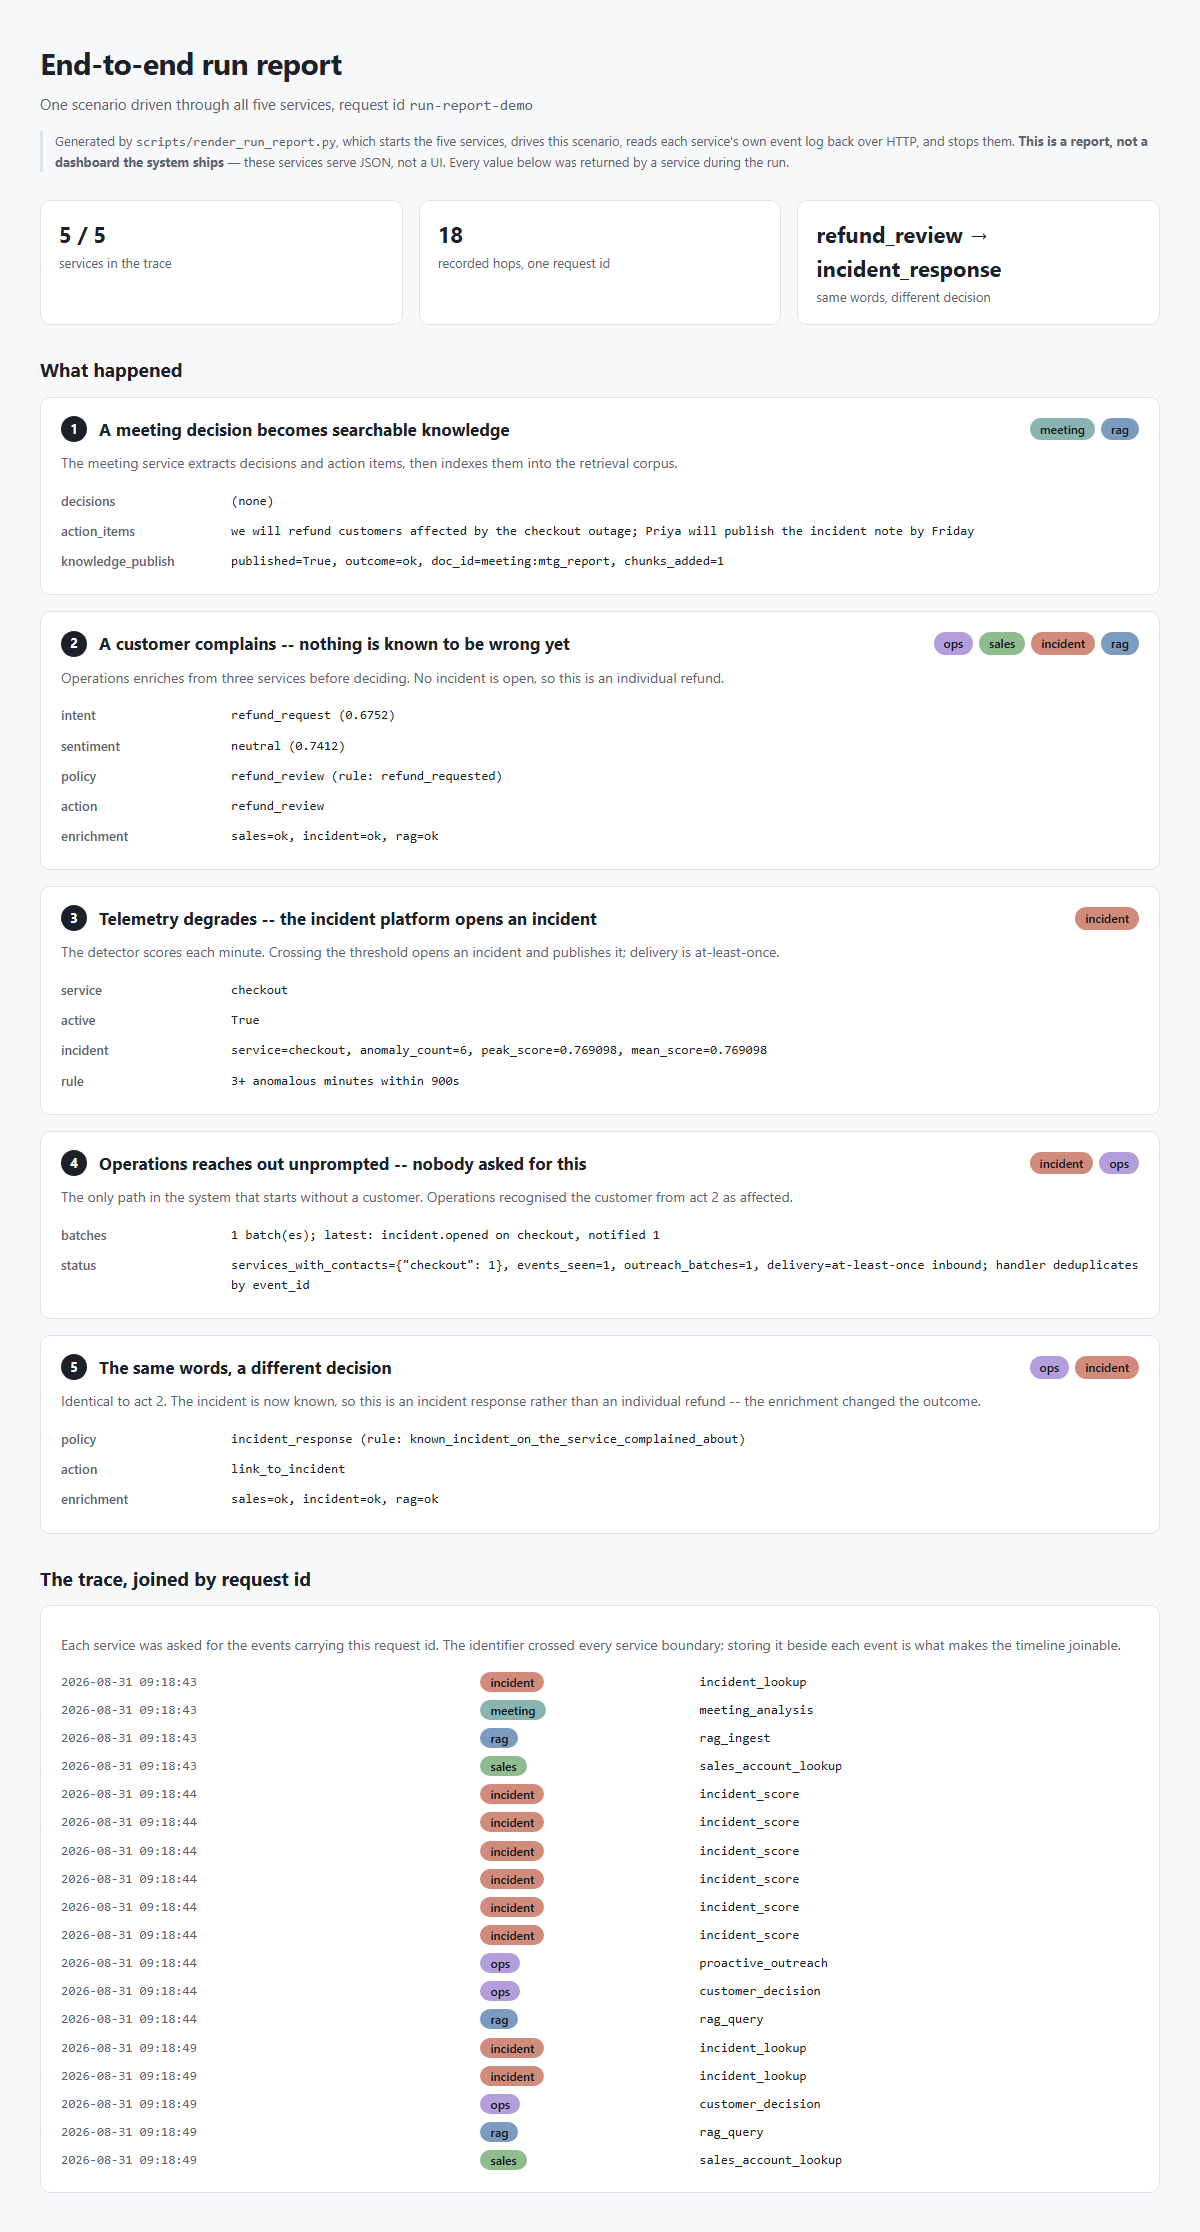
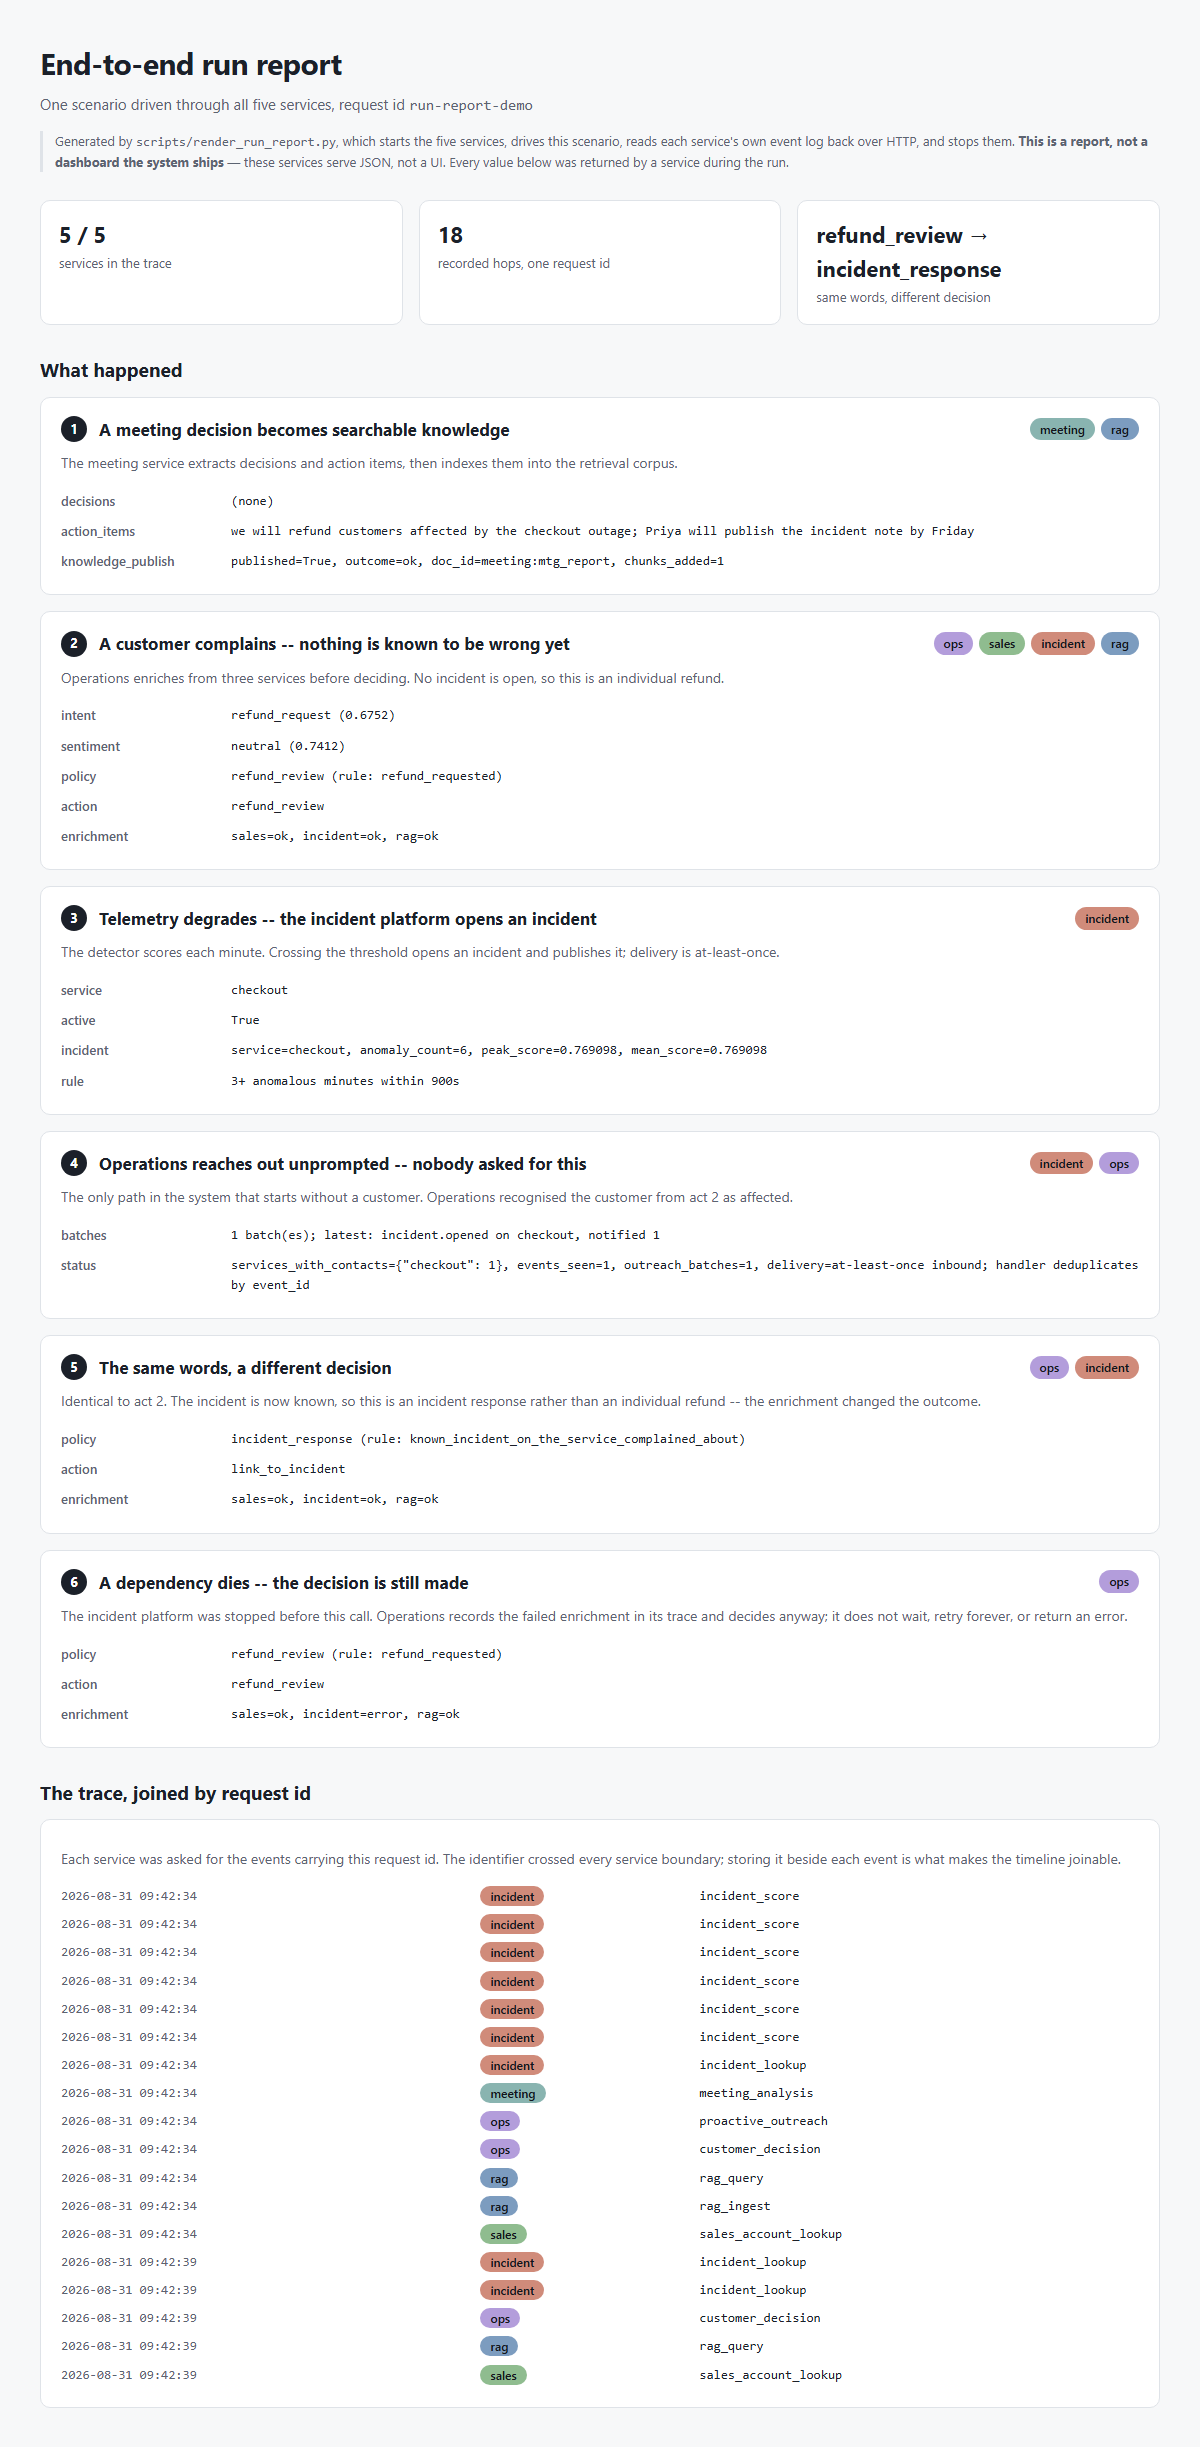
Make the terminal cards stable, and drop the one now superseded

diff --git a/docs/assets/run-report.html b/docs/assets/run-report.html
@@ -111,13 +111,22 @@
       <p class="detail">Identical to act 2. The incident is now known, so this is an incident response rather than an individual refund -- the enrichment changed the outcome.</p>
       <table class="kv"><tr><th>policy</th><td>incident_response  (rule: known_incident_on_the_service_complained_about)</td></tr><tr><th>action</th><td>link_to_incident</td></tr><tr><th>enrichment</th><td>sales=ok,  incident=ok,  rag=ok</td></tr></table>
     </section>
+    <section class="act">
+      <div class="act-head">
+        <span class="num">6</span>
+        <h3>A dependency dies -- the decision is still made</h3>
+        <div class="chips"><span class="chip" style="--c:#b39ddb">ops</span></div>
+      </div>
+      <p class="detail">The incident platform was stopped before this call. Operations records the failed enrichment in its trace and decides anyway; it does not wait, retry forever, or return an error.</p>
+      <table class="kv"><tr><th>policy</th><td>refund_review  (rule: refund_requested)</td></tr><tr><th>action</th><td>refund_review</td></tr><tr><th>enrichment</th><td>sales=ok,  incident=error,  rag=ok</td></tr></table>
+    </section>
 
   <h2>The trace, joined by request id</h2>
   <div class="trace">
     <p class="detail">Each service was asked for the events carrying this request
       id. The identifier crossed every service boundary; storing it beside each
       event is what makes the timeline joinable.</p>
-    <table><tr><td class="ts">2026-08-31 09:18:43</td><td><span class="chip" style="--c:#d08b7a">incident</span></td><td class="ev">incident_lookup</td></tr><tr><td class="ts">2026-08-31 09:18:43</td><td><span class="chip" style="--c:#89b4b0">meeting</span></td><td class="ev">meeting_analysis</td></tr><tr><td class="ts">2026-08-31 09:18:43</td><td><span class="chip" style="--c:#7c9cbf">rag</span></td><td class="ev">rag_ingest</td></tr><tr><td class="ts">2026-08-31 09:18:43</td><td><span class="chip" style="--c:#8fbc8f">sales</span></td><td class="ev">sales_account_lookup</td></tr><tr><td class="ts">2026-08-31 09:18:44</td><td><span class="chip" style="--c:#d08b7a">incident</span></td><td class="ev">incident_score</td></tr><tr><td class="ts">2026-08-31 09:18:44</td><td><span class="chip" style="--c:#d08b7a">incident</span></td><td class="ev">incident_score</td></tr><tr><td class="ts">2026-08-31 09:18:44</td><td><span class="chip" style="--c:#d08b7a">incident</span></td><td class="ev">incident_score</td></tr><tr><td class="ts">2026-08-31 09:18:44</td><td><span class="chip" style="--c:#d08b7a">incident</span></td><td class="ev">incident_score</td></tr><tr><td class="ts">2026-08-31 09:18:44</td><td><span class="chip" style="--c:#d08b7a">incident</span></td><td class="ev">incident_score</td></tr><tr><td class="ts">2026-08-31 09:18:44</td><td><span class="chip" style="--c:#d08b7a">incident</span></td><td class="ev">incident_score</td></tr><tr><td class="ts">2026-08-31 09:18:44</td><td><span class="chip" style="--c:#b39ddb">ops</span></td><td class="ev">proactive_outreach</td></tr><tr><td class="ts">2026-08-31 09:18:44</td><td><span class="chip" style="--c:#b39ddb">ops</span></td><td class="ev">customer_decision</td></tr><tr><td class="ts">2026-08-31 09:18:44</td><td><span class="chip" style="--c:#7c9cbf">rag</span></td><td class="ev">rag_query</td></tr><tr><td class="ts">2026-08-31 09:18:49</td><td><span class="chip" style="--c:#d08b7a">incident</span></td><td class="ev">incident_lookup</td></tr><tr><td class="ts">2026-08-31 09:18:49</td><td><span class="chip" style="--c:#d08b7a">incident</span></td><td class="ev">incident_lookup</td></tr><tr><td class="ts">2026-08-31 09:18:49</td><td><span class="chip" style="--c:#b39ddb">ops</span></td><td class="ev">customer_decision</td></tr><tr><td class="ts">2026-08-31 09:18:49</td><td><span class="chip" style="--c:#7c9cbf">rag</span></td><td class="ev">rag_query</td></tr><tr><td class="ts">2026-08-31 09:18:49</td><td><span class="chip" style="--c:#8fbc8f">sales</span></td><td class="ev">sales_account_lookup</td></tr></table>
+    <table><tr><td class="ts">2026-08-31 09:42:34</td><td><span class="chip" style="--c:#d08b7a">incident</span></td><td class="ev">incident_score</td></tr><tr><td class="ts">2026-08-31 09:42:34</td><td><span class="chip" style="--c:#d08b7a">incident</span></td><td class="ev">incident_score</td></tr><tr><td class="ts">2026-08-31 09:42:34</td><td><span class="chip" style="--c:#d08b7a">incident</span></td><td class="ev">incident_score</td></tr><tr><td class="ts">2026-08-31 09:42:34</td><td><span class="chip" style="--c:#d08b7a">incident</span></td><td class="ev">incident_score</td></tr><tr><td class="ts">2026-08-31 09:42:34</td><td><span class="chip" style="--c:#d08b7a">incident</span></td><td class="ev">incident_score</td></tr><tr><td class="ts">2026-08-31 09:42:34</td><td><span class="chip" style="--c:#d08b7a">incident</span></td><td class="ev">incident_score</td></tr><tr><td class="ts">2026-08-31 09:42:34</td><td><span class="chip" style="--c:#d08b7a">incident</span></td><td class="ev">incident_lookup</td></tr><tr><td class="ts">2026-08-31 09:42:34</td><td><span class="chip" style="--c:#89b4b0">meeting</span></td><td class="ev">meeting_analysis</td></tr><tr><td class="ts">2026-08-31 09:42:34</td><td><span class="chip" style="--c:#b39ddb">ops</span></td><td class="ev">proactive_outreach</td></tr><tr><td class="ts">2026-08-31 09:42:34</td><td><span class="chip" style="--c:#b39ddb">ops</span></td><td class="ev">customer_decision</td></tr><tr><td class="ts">2026-08-31 09:42:34</td><td><span class="chip" style="--c:#7c9cbf">rag</span></td><td class="ev">rag_query</td></tr><tr><td class="ts">2026-08-31 09:42:34</td><td><span class="chip" style="--c:#7c9cbf">rag</span></td><td class="ev">rag_ingest</td></tr><tr><td class="ts">2026-08-31 09:42:34</td><td><span class="chip" style="--c:#8fbc8f">sales</span></td><td class="ev">sales_account_lookup</td></tr><tr><td class="ts">2026-08-31 09:42:39</td><td><span class="chip" style="--c:#d08b7a">incident</span></td><td class="ev">incident_lookup</td></tr><tr><td class="ts">2026-08-31 09:42:39</td><td><span class="chip" style="--c:#d08b7a">incident</span></td><td class="ev">incident_lookup</td></tr><tr><td class="ts">2026-08-31 09:42:39</td><td><span class="chip" style="--c:#b39ddb">ops</span></td><td class="ev">customer_decision</td></tr><tr><td class="ts">2026-08-31 09:42:39</td><td><span class="chip" style="--c:#7c9cbf">rag</span></td><td class="ev">rag_query</td></tr><tr><td class="ts">2026-08-31 09:42:39</td><td><span class="chip" style="--c:#8fbc8f">sales</span></td><td class="ev">sales_account_lookup</td></tr></table>
   </div>
 </div>
 </body>

diff --git a/scripts/capture_assets.py b/scripts/capture_assets.py
@@ -57,7 +57,47 @@ CHAR_WIDTH = 8.4
 PADDING = 18
 
 
+# Progress bars from model loading. Clutter in a published asset, and they carry a
+# throughput figure that differs on every run.
+PROGRESS = re.compile(r"^.*\d+%\|.*it/s\].*$", re.MULTILINE)
+
+# Environmental noise about the machine that ran the capture, not about the
+# code being captured. A reviewer does not need to know this laptop has no
+# Hugging Face token.
+NOISE = re.compile(r"^.*(unauthenticated requests to the HF Hub|Please set a HF_TOKEN).*$", re.MULTILINE)
+
+# The retrieval table's last two columns are wall-clock, measured on whoever ran
+# the capture. They churn every run while the metrics beside them do not, which
+# would make every regeneration a spurious diff and defeat the reason these are
+# text. The quality metrics are the point; the latency trade-off is discussed with
+# numbers in that repository's README.
+TIMING_COLUMNS = re.compile(
+    r"^(\S.*?\s+\d\.\d{4}\s+\d\.\d{4}\s+\d\.\d{4})\s+[\d.]+\s+[\d.]+\s*$",
+    re.MULTILINE,
+)
+
+
 def stabilise(text):
+    text = PROGRESS.sub("", text)
+    text = NOISE.sub("", text)
+    text = TIMING_COLUMNS.sub(r"\1", text)
+    # Collapse the blank runs left where progress bars were stripped, so the card
+    # does not carry gaps that only exist because something was removed.
+    collapsed, blanks = [], 0
+    for line in text.splitlines():
+        if line.strip():
+            blanks = 0
+            collapsed.append(line)
+        else:
+            blanks += 1
+            if blanks == 1:
+                collapsed.append(line)
+    text = "\n".join(collapsed)
+    # Drop the matching column headings and shorten the rule beneath them.
+    # Stripping the values alone would leave "idx(s)  q(ms)" labelling an empty
+    # column, which reads as a broken capture rather than an omitted one.
+    text = re.sub(r"(nDCG@10\s+Recall@10\s+MRR@10)\s+idx\(s\)\s+q\(ms\)", r"\1", text)
+    text = re.sub(r"^-{40,}$", "-" * 52, text, flags=re.MULTILINE)
     for pattern, replacement in VOLATILE:
         text = pattern.sub(replacement, text)
     # A published asset should not carry whoever-ran-it's home directory, and a
@@ -290,14 +330,12 @@ def run(command, cwd, timeout=900, env=None):
     return (result.stdout + result.stderr).strip()
 
 
+# The end-to-end demo used to be captured here as a terminal card. It was removed
+# once the run report existed: the card omitted 64 of its lines to fit, while the
+# report shows the same six acts complete, with the trace, and does not truncate.
+# Two artifacts of the same run, one strictly worse, is a maintenance cost with no
+# reader benefit.
 CAPTURES = [
-    {
-        "name": "end-to-end-demo",
-        "title": "Five services, one request id, six acts",
-        "display": "python scripts/demo_end_to_end.py --local",
-        "argv": [sys.executable, "scripts/demo_end_to_end.py", "--local"],
-        "cwd": ROOT,
-    },
     {
         "name": "contract-verification",
         "title": "Consumer-driven contracts, verified against live services",

diff --git a/scripts/render_run_report.py b/scripts/render_run_report.py
@@ -197,6 +197,39 @@ def run_scenario():
     return acts, before, after
 
 
+def run_degraded_act(processes):
+    """Kill a dependency, then decide anyway.
+
+    Deliberately runs AFTER the trace is collected. Killing the incident service
+    first means its events can no longer be read, and the trace silently drops to
+    four services -- which happened, and looked like a smaller system rather than
+    a stopped process.
+    """
+    incident_process = processes[list(REPOS).index("incident")]
+    incident_process.terminate()
+    try:
+        incident_process.wait(timeout=15)
+    except subprocess.TimeoutExpired:
+        incident_process.kill()
+    time.sleep(1)
+
+    degraded, error = call("POST", base("ops") + "/v1/decide", {
+        "message": "my checkout payment keeps failing and I want my money back",
+        "customer_id": CUSTOMER, "service": "checkout",
+    })
+    return {
+        "n": 6,
+        "title": "A dependency dies -- the decision is still made",
+        "services": ["ops"],
+        "detail": "The incident platform was stopped before this call. Operations "
+                  "records the failed enrichment in its trace and decides anyway; "
+                  "it does not wait, retry forever, or return an error.",
+        "result": degraded or {"error": error},
+        "keys": ["policy", "action", "enrichment"],
+    }
+
+
+
 def collect_trace():
     hops = []
     for service in REPOS:
@@ -407,7 +440,8 @@ def main():
         wait_for_all()
         print("five services up")
         acts, before, after = run_scenario()
-        hops = collect_trace()
+        hops = collect_trace()          # all five alive, so all five answer
+        acts.append(run_degraded_act(processes))
         print(f"scenario complete: {len(hops)} hops across "
               f"{len({h['service'] for h in hops})} services")
         OUTPUT.parent.mkdir(parents=True, exist_ok=True)

diff --git a/README.md b/README.md
@@ -203,13 +203,16 @@ Nothing is typed by hand — an asset that can be hand-edited is not evidence.
 The whole system in one image: a meeting decision indexed into retrieval, a
 complaint enriched from three services, telemetry degrading until an incident
 opens and is **pushed** to operations, unprompted outreach to the customer who
-complained earlier, and then **the same words producing a different decision**
-because the incident is now known.
+complained earlier, **the same words producing a different decision** because the
+incident is now known, and finally a dependency killed mid-run — the decision is
+still made, with `incident=error` recorded in the trace.
 
 Below it, all 18 hops joined by one request id across all five services.
 
 Generated by `scripts/render_run_report.py`, which starts the services, drives the
-scenario, reads each service's own event log back over HTTP, and stops them. **It
+scenario, reads each service's own event log back over HTTP, and stops them. The
+page itself is kept at [`docs/assets/run-report.html`](docs/assets/run-report.html)
+so it can be opened and read rather than only viewed as an image. **It
 is a report, not a dashboard the system ships** — these services serve JSON, not a
 UI. Every value shown was returned by a service during that run.
 
@@ -242,10 +245,6 @@ the code serves.
 
 A screenshot, because here the layout *is* the thing being shown. The command
 output below is the opposite case, and gets SVG.
-
-### Five services, one request id, six acts
-
-![end-to-end demo](docs/assets/end-to-end-demo.svg)
 
 ### Consumer-driven contracts, verified against live services
 
